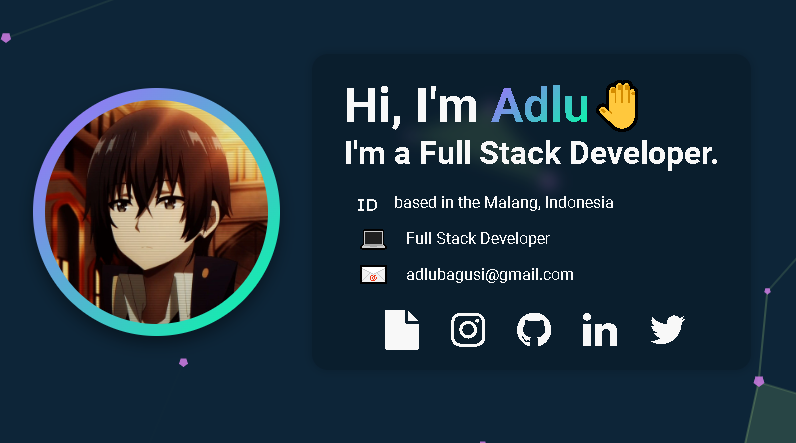
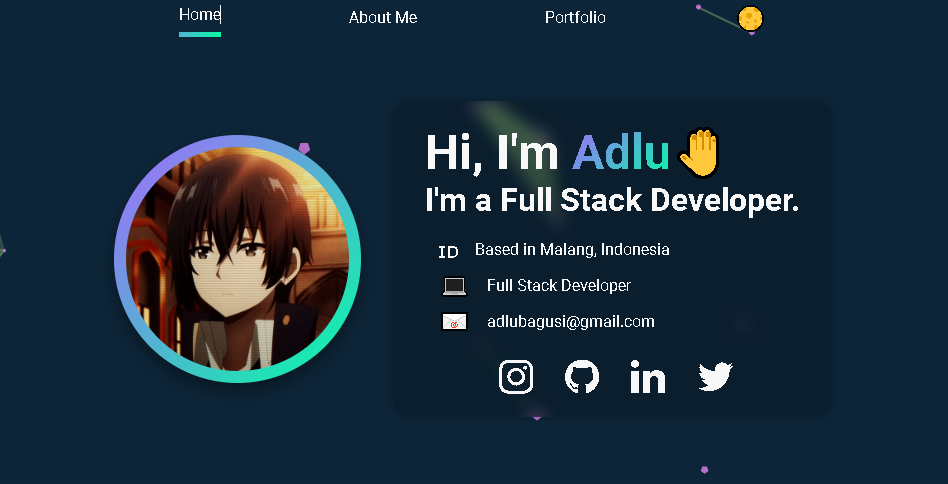
update info.js

diff --git a/src/assets/info/Info.js b/src/assets/info/Info.js
@@ -13,7 +13,7 @@ export const info = {
     // these are just some "tidbits" about yourself. You can look at mine https://paytonjewell.github.io/#/ for an example if you'd like
     {
       emoji: '🇮🇩',
-      text: 'based in the Malang, Indonesia',
+      text: 'Based in Malang, Indonesia',
     },
     {
       emoji: '💻',
